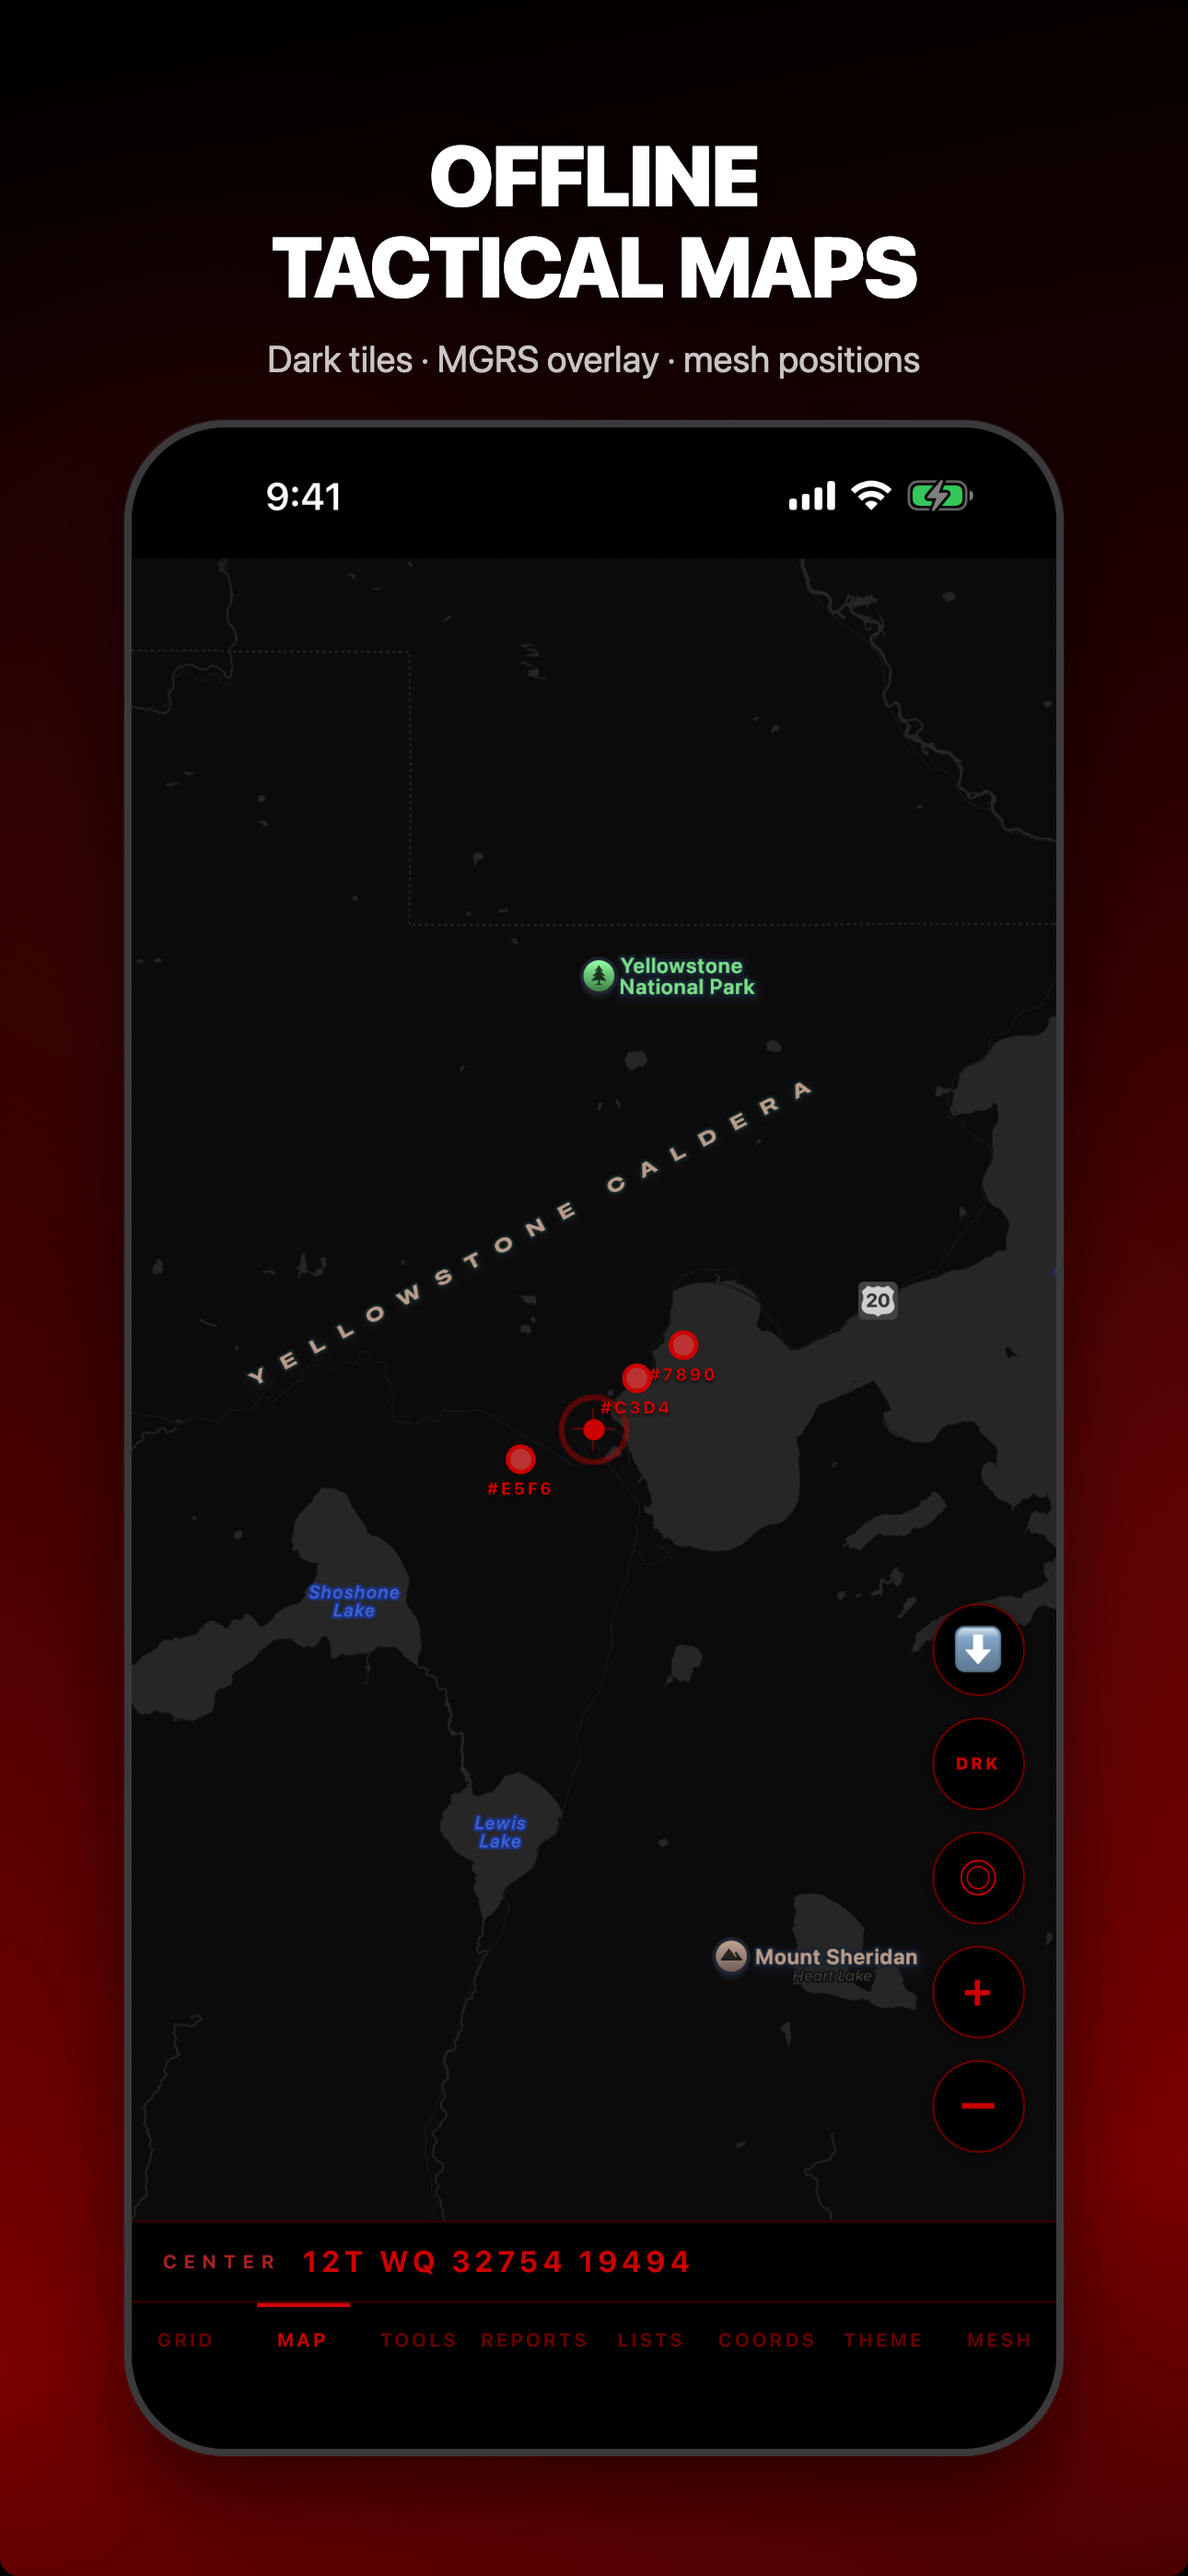
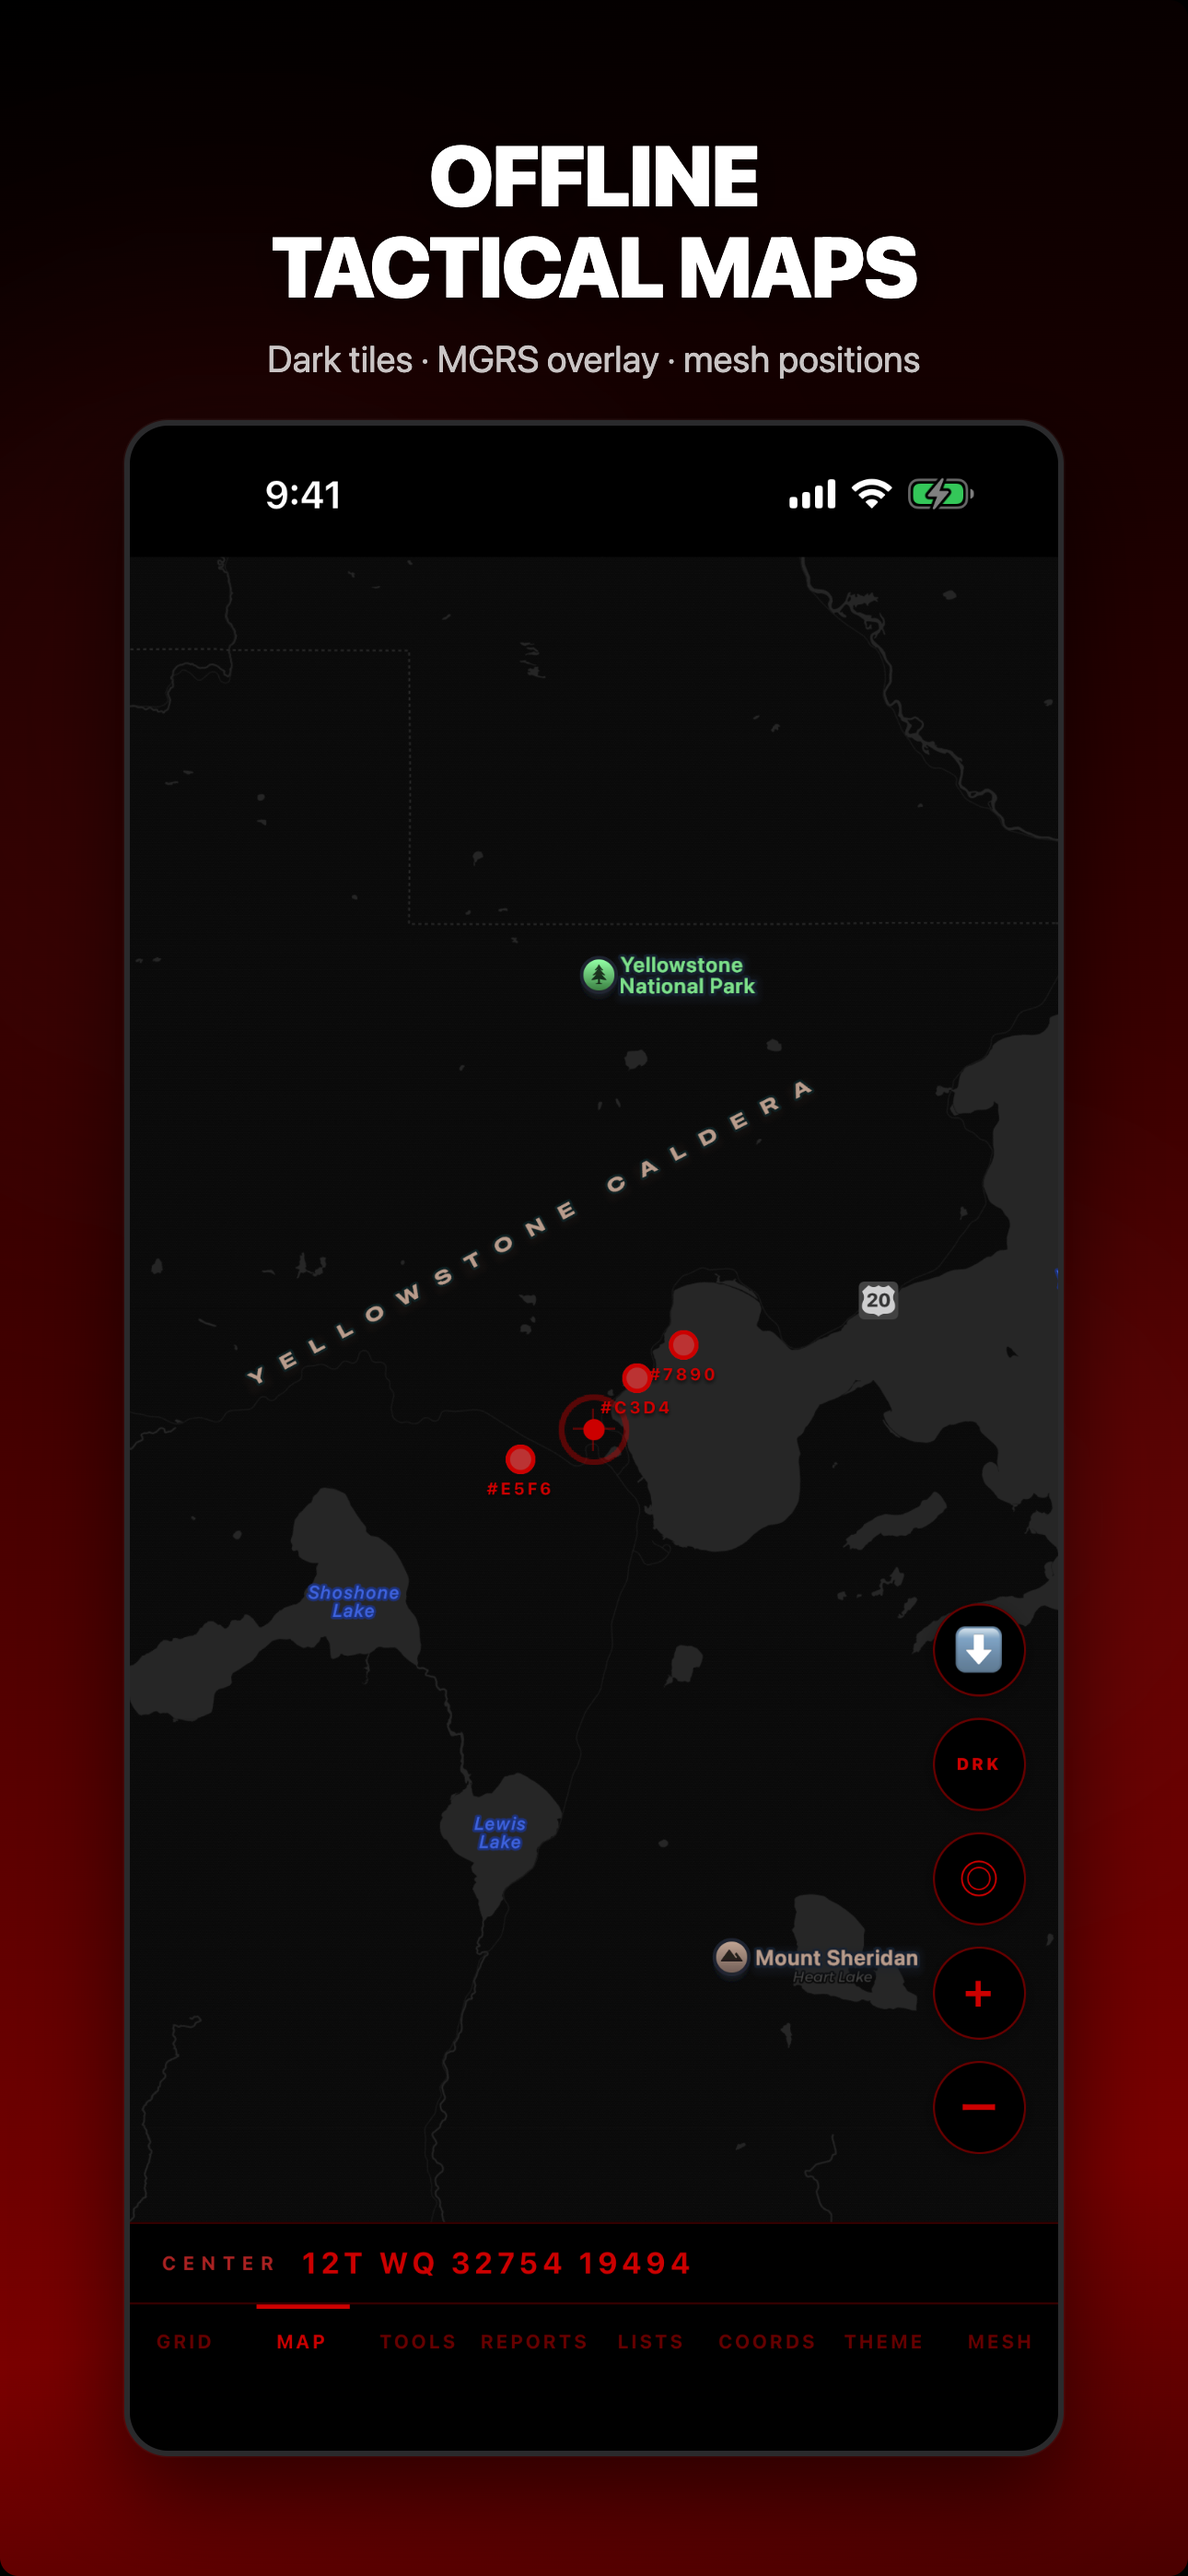
screenshots: render iOS + Android variants with OS-specific phone chrome
- composite.html: add body.android override for 48px corners / 6px bezel (Pixel look). Default 110px / 8px stays for iPhone Pro Max.
- render.js: iterate platforms [ios, android], toggle body class between renders, output to ios/ and android/ folders independently (no more Android = iOS copy).
- Same inner content + headlines on both — only the phone mockup chrome changes.

diff --git a/screenshots/render.js b/screenshots/render.js
@@ -44,32 +44,38 @@ const CAPTIONS = [
   await page.setViewport({ width: 14000, height: FRAME_HEIGHT + 200, deviceScaleFactor: 1 });
 
   const htmlPath = path.join(__dirname, 'composite.html');
-  await page.goto(`file://${htmlPath}`, { waitUntil: 'networkidle0', timeout: 30000 });
 
-  // Wait for all phone images to load
-  await page.waitForFunction(() => {
-    const imgs = document.querySelectorAll('.phone img');
-    return imgs.length > 0 && Array.from(imgs).every(img => img.complete && img.naturalHeight > 0);
-  }, { timeout: 15000 }).catch(() => {
-    console.warn('Warning: some images may not have loaded — continuing anyway');
-  });
+  // Render for each platform — iOS default, Android adds body.android class for Pixel-style chrome
+  const platforms = [
+    { name: 'ios',     out: IOS_OUT,     bodyClass: '' },
+    { name: 'android', out: ANDROID_OUT, bodyClass: 'android' },
+  ];
 
-  const frames = await page.$$('.frame');
-  console.log(`Found ${frames.length} frames`);
+  for (const platform of platforms) {
+    console.log(`\nRendering ${platform.name}...`);
+    await page.goto(`file://${htmlPath}`, { waitUntil: 'networkidle0', timeout: 30000 });
 
-  for (let i = 0; i < frames.length; i++) {
-    const name = CAPTIONS[i] || `frame_${i + 1}`;
+    // Apply platform-specific body class so CSS swaps phone chrome
+    await page.evaluate((cls) => { document.body.className = cls; }, platform.bodyClass);
 
-    // iOS screenshot
-    const iosPath = path.join(IOS_OUT, `${name}.png`);
-    await frames[i].screenshot({ path: iosPath });
-    const iosStat = fs.statSync(iosPath);
-    console.log(`  ✓ ios/${name}.png (${(iosStat.size / 1024).toFixed(0)} KB)`);
+    // Wait for all phone images to load
+    await page.waitForFunction(() => {
+      const imgs = document.querySelectorAll('.phone img');
+      return imgs.length > 0 && Array.from(imgs).every(img => img.complete && img.naturalHeight > 0);
+    }, { timeout: 15000 }).catch(() => {
+      console.warn('Warning: some images may not have loaded — continuing anyway');
+    });
 
-    // Android screenshot — same dimensions work for Play Store phone screenshots
-    const androidPath = path.join(ANDROID_OUT, `${name}.png`);
-    fs.copyFileSync(iosPath, androidPath);
-    console.log(`  ✓ android/${name}.png (copy)`);
+    const frames = await page.$$('.frame');
+    console.log(`  Found ${frames.length} frames`);
+
+    for (let i = 0; i < frames.length; i++) {
+      const name = CAPTIONS[i] || `frame_${i + 1}`;
+      const outPath = path.join(platform.out, `${name}.png`);
+      await frames[i].screenshot({ path: outPath });
+      const stat = fs.statSync(outPath);
+      console.log(`  ✓ ${platform.name}/${name}.png (${(stat.size / 1024).toFixed(0)} KB)`);
+    }
   }
 
   await browser.close();

diff --git a/screenshots/composite.html b/screenshots/composite.html
@@ -96,6 +96,7 @@
   }
 
   /* Phone mockup — Just Start proportions (1020x2210 in 1290x2796 frame) */
+  /* iOS default: big rounded corners, thicker bezel (iPhone Pro Max look) */
   .phone {
     position: relative;
     z-index: 2;
@@ -110,6 +111,12 @@
       0 40px 100px rgba(0,0,0,0.6),
       0 0 0 1.5px rgba(255,255,255,0.05);
     flex-shrink: 0;
+  }
+
+  /* Android: Pixel 9 Pro XL-style — squarer corners, thinner bezel */
+  body.android .phone {
+    border-radius: 48px;
+    border: 6px solid #2a2a2c;
   }
 
   .phone img {
